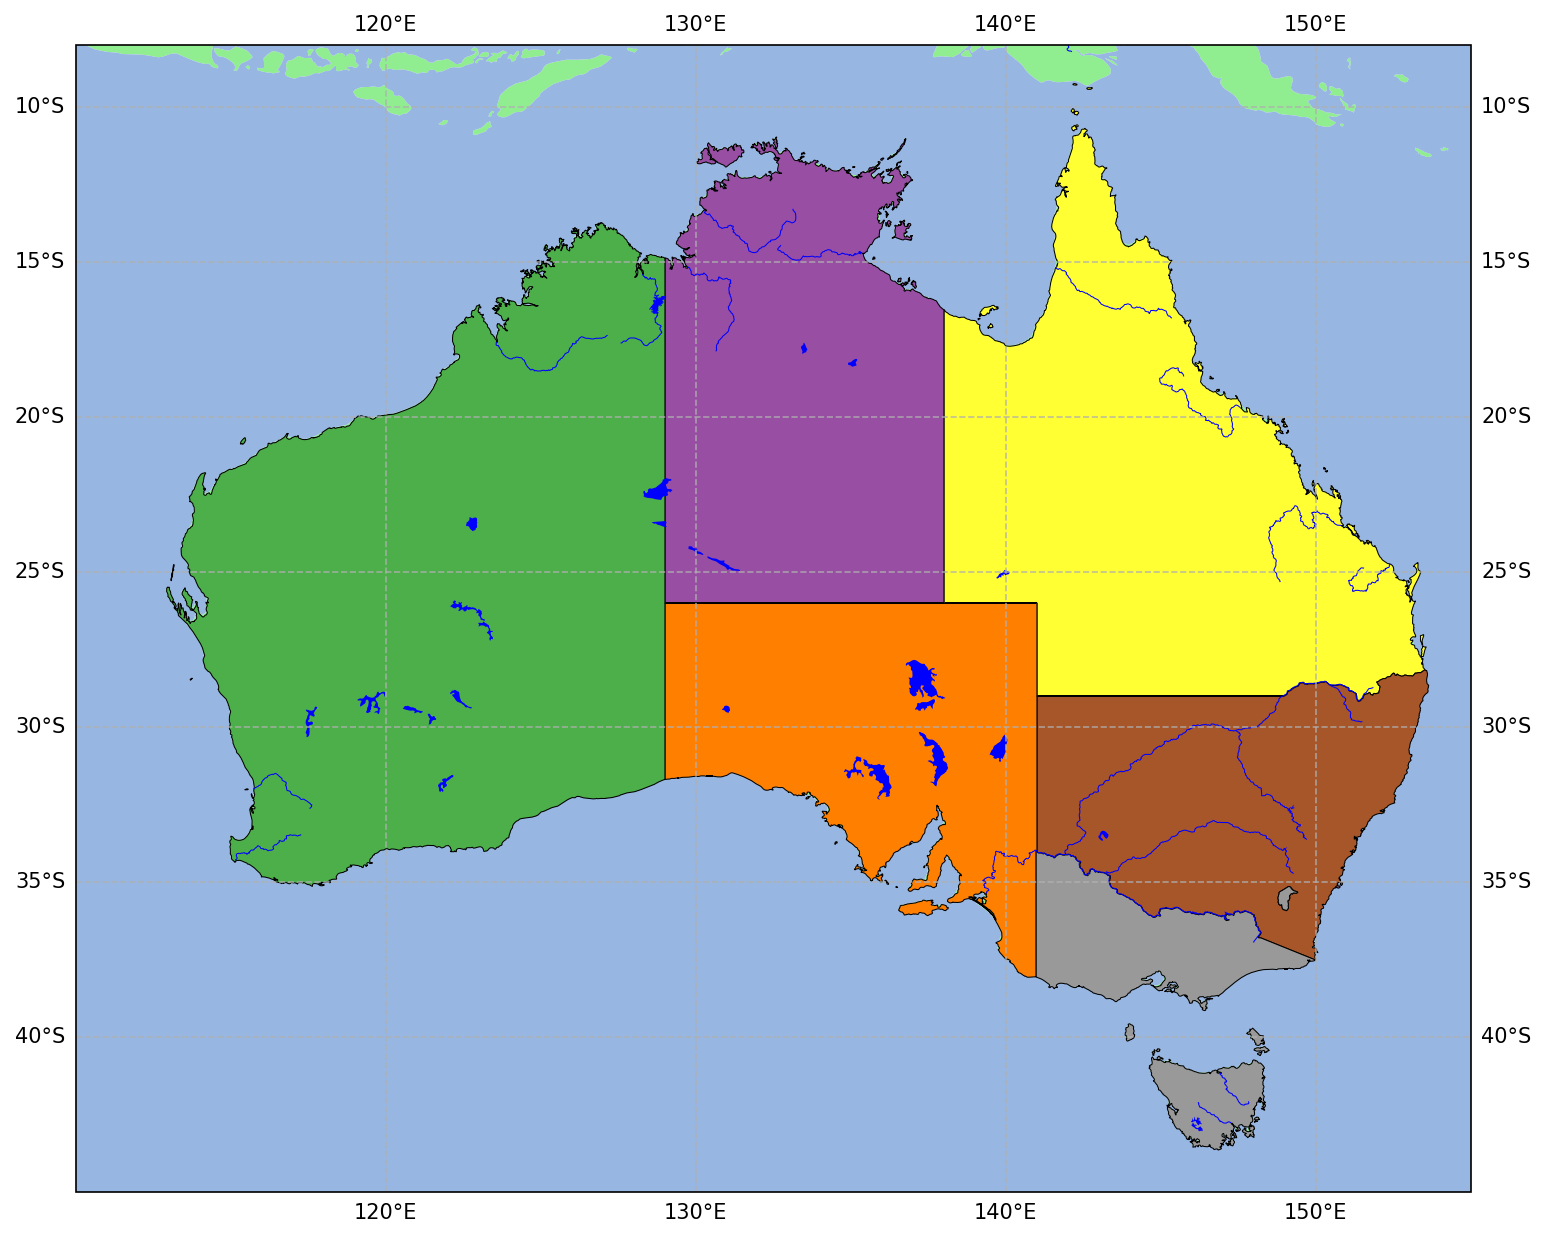
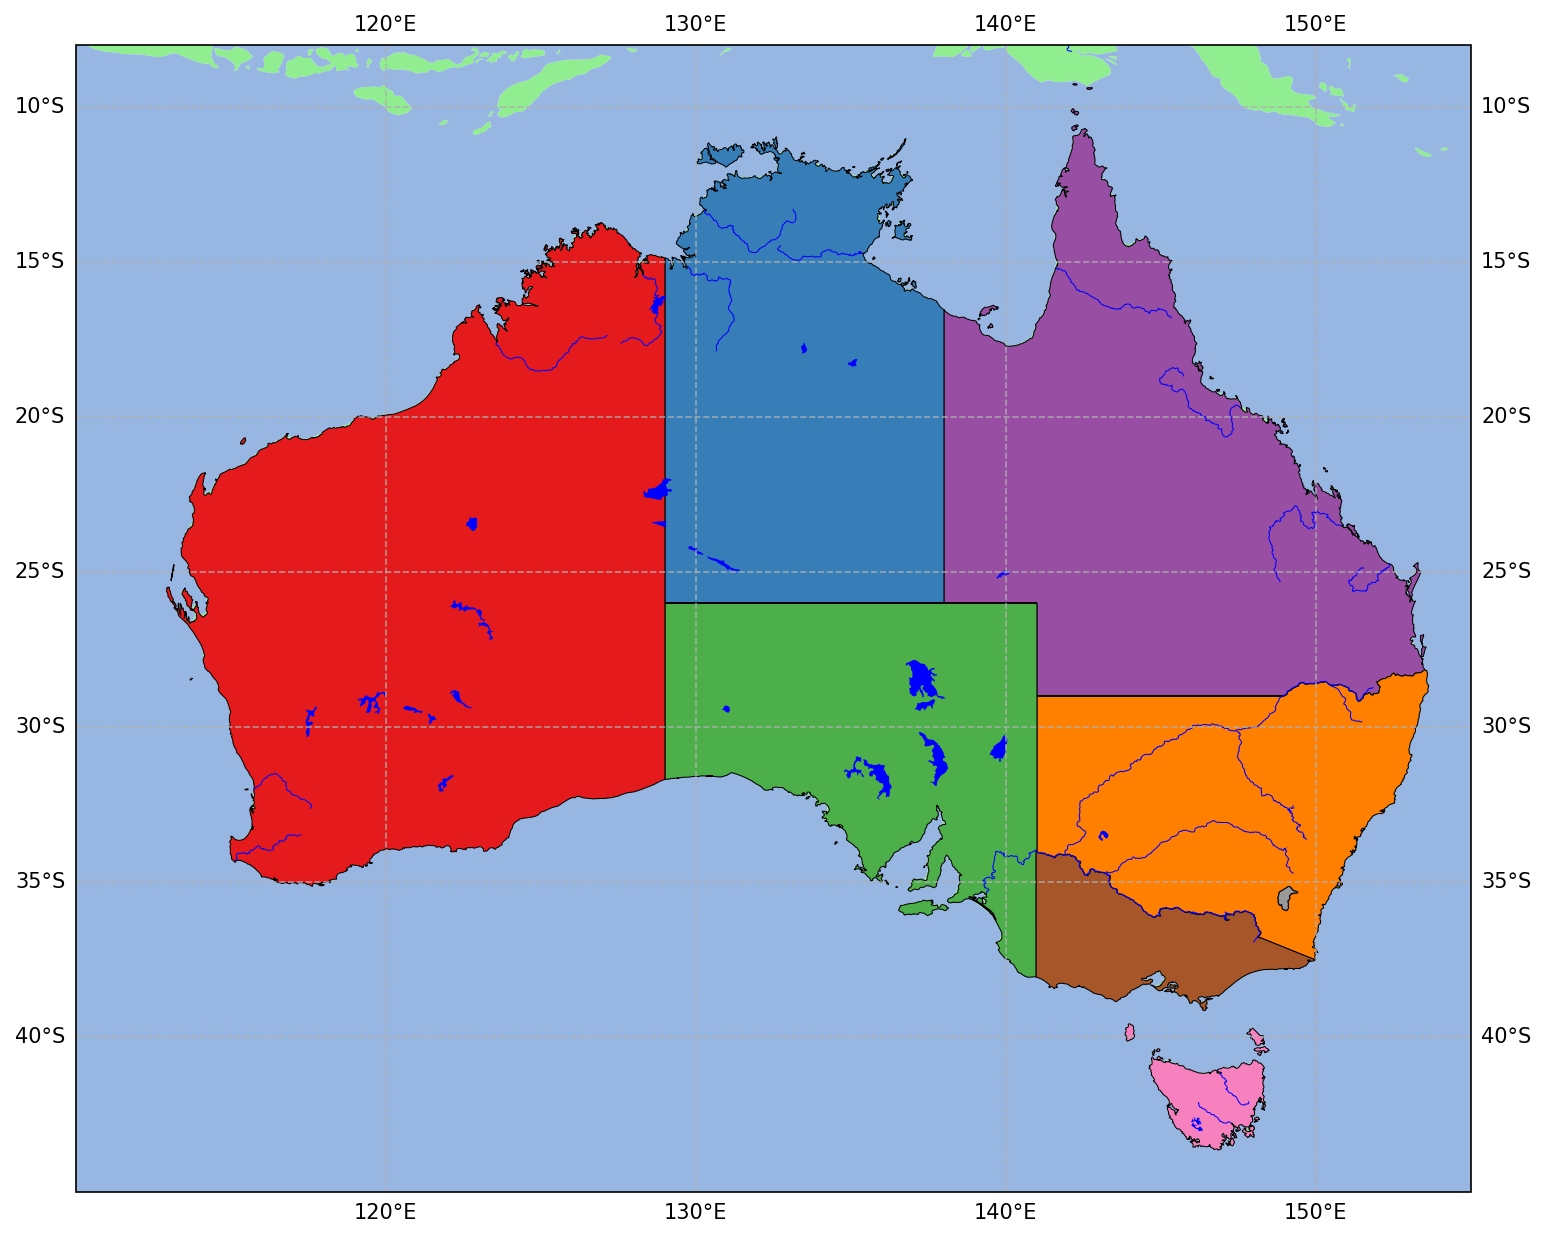
fixed aus

diff --git a/index.html b/index.html
@@ -443,7 +443,7 @@ reader = shpreader.Reader(shpfilename)
 states = reader.records()
 
 color = plt.get_cmap('Set1')
-idx=2
+idx=0
 for state in states:
     if state.attributes['admin'] == 'Australia':
         ax.add_geometries([state.geometry], ccrs.PlateCarree(), edgecolor='black', facecolor=color(idx),linewidth=0.5)
